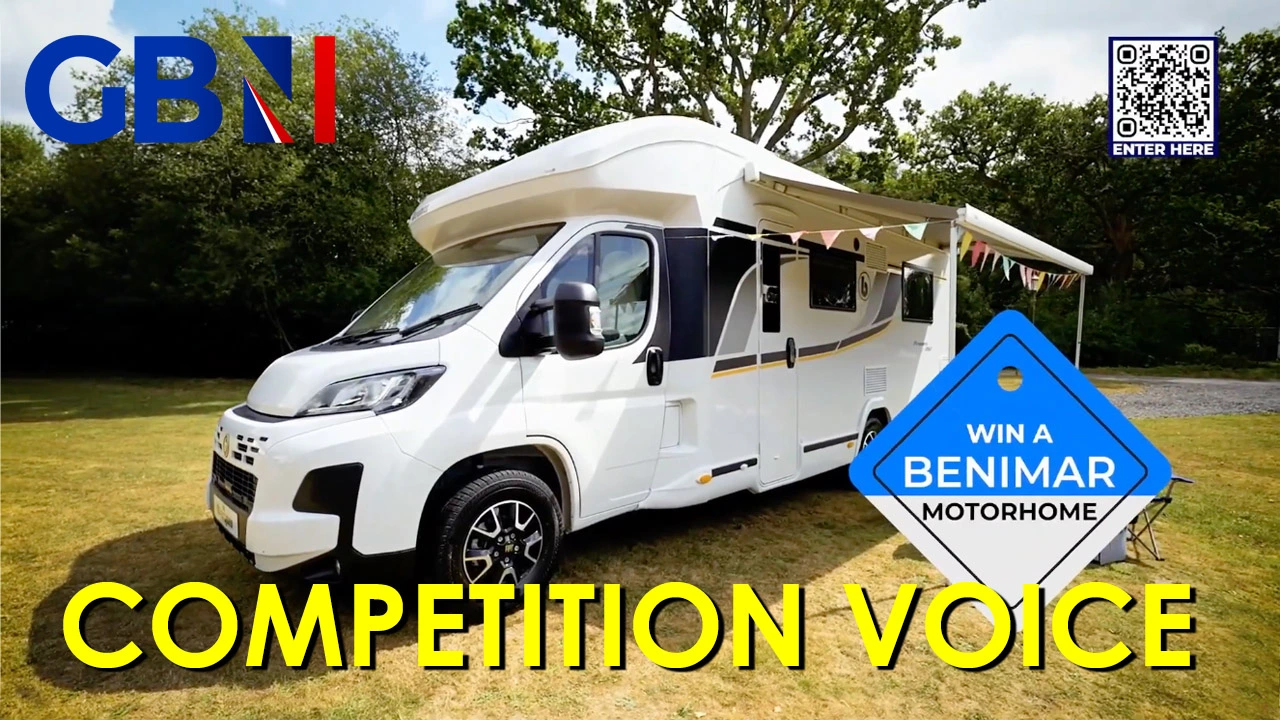
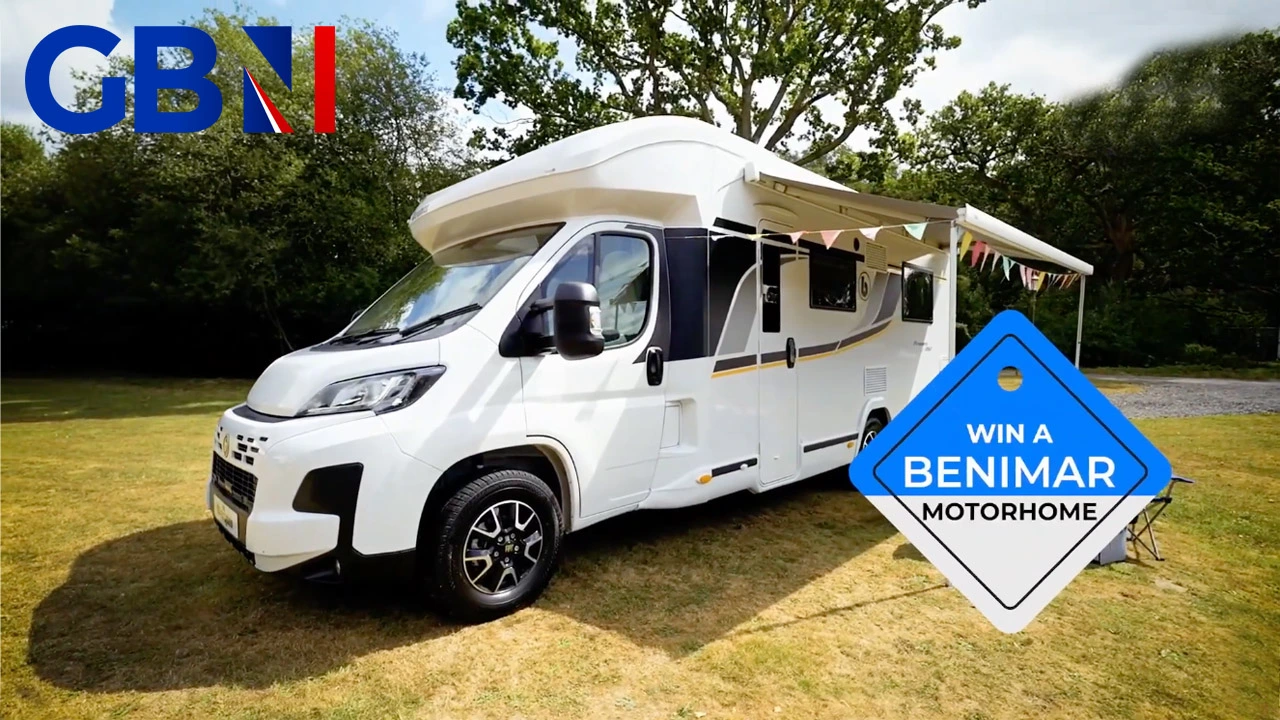
Update video cards to match SantaGuy website style
Replace custom video thumbnails with new WEBP images, implement YouTube-style red play buttons, and restyle cards to a clean white design with rounded corners and subtle hover effects.

Replit-Commit-Author: Agent
Replit-Commit-Session-Id: bfc97637-5a69-47d6-aaa4-dc991e6bf89f
Replit-Commit-Checkpoint-Type: full_checkpoint
Replit-Commit-Event-Id: 2c4ea893-d488-412f-a7ba-46a44b9510f7
Replit-Commit-Screenshot-Url: https://storage.googleapis.com/screenshot-production-us-central1/914520e3-7f4e-4784-a76e-e5ef8cb473bb/bfc97637-5a69-47d6-aaa4-dc991e6bf89f/9NCEJ8X
Replit-Helium-Checkpoint-Created: true

Changed region(s): [[0.0312, 0.7944, 0.9375, 0.9472], [0.0, 0.0306, 0.2812, 0.2139], [0.8125, 0.0306, 1.0, 0.2444]]

diff --git a/client/src/pages/home.tsx b/client/src/pages/home.tsx
@@ -775,9 +775,9 @@ function VideoCard({ video }: { video: typeof VIDEO_CARDS[number] }) {
   const [playing, setPlaying] = useState(false);
 
   return (
-    <div data-testid={video.testId}>
+    <div data-testid={video.testId} className="group">
       <div
-        className="relative aspect-video rounded-lg overflow-hidden bg-gray-900 shadow-lg group transition-all duration-250 ease-out hover:-translate-y-1 hover:shadow-xl"
+        className="relative aspect-video rounded-xl overflow-hidden bg-gray-100 shadow-md transition-all duration-300 ease-out group-hover:-translate-y-1 group-hover:shadow-xl"
       >
         {playing ? (
           <iframe
@@ -790,7 +790,7 @@ function VideoCard({ video }: { video: typeof VIDEO_CARDS[number] }) {
         ) : (
           <button
             onClick={() => setPlaying(true)}
-            className="absolute inset-0 w-full h-full cursor-pointer focus-visible:outline-none focus-visible:ring-2 focus-visible:ring-[#9C060B] focus-visible:ring-offset-2 rounded-lg"
+            className="absolute inset-0 w-full h-full cursor-pointer focus-visible:outline-none focus-visible:ring-2 focus-visible:ring-[#9C060B] focus-visible:ring-offset-2 rounded-xl"
             aria-label={`Play ${video.title}`}
             data-testid={`play-button-${video.id}`}
           >
@@ -800,27 +800,22 @@ function VideoCard({ video }: { video: typeof VIDEO_CARDS[number] }) {
               className="absolute inset-0 w-full h-full object-cover transition-transform duration-300 ease-out group-hover:scale-[1.03]"
               loading="lazy"
             />
-            <div
-              className="absolute inset-0 pointer-events-none"
-              style={{
-                background: "linear-gradient(to top, rgba(0,0,0,0.45), rgba(0,0,0,0.18), transparent)",
-              }}
-            />
             <div className="absolute inset-0 flex items-center justify-center pointer-events-none">
-              <div
-                className="w-16 h-16 rounded-full bg-[#9C060B] flex items-center justify-center shadow-lg transition-transform duration-250 ease-out group-hover:scale-110"
+              <svg
+                className="w-[68px] h-[48px] transition-transform duration-300 ease-out group-hover:scale-110 drop-shadow-lg"
+                viewBox="0 0 68 48"
+                aria-hidden="true"
+                focusable="false"
               >
-                <Play className="h-7 w-7 text-white ml-0.5" fill="currentColor" />
-              </div>
+                <path d="M66.52 7.74c-.78-2.93-2.49-5.41-5.42-6.19C55.79.13 34 0 34 0S12.21.13 6.9 1.55C3.97 2.33 2.27 4.81 1.48 7.74.06 13.05 0 24 0 24s.06 10.95 1.48 16.26c.78 2.93 2.49 5.41 5.42 6.19C12.21 47.87 34 48 34 48s21.79-.13 27.1-1.55c2.93-.78 4.64-3.26 5.42-6.19C67.94 34.95 68 24 68 24s-.06-10.95-1.48-16.26z" fill="#FF0000" />
+                <path d="M45 24L27 14v20" fill="#fff" />
+              </svg>
             </div>
           </button>
         )}
       </div>
-      <h3 className="text-lg font-semibold text-gray-900 mt-4">
+      <p className="text-[15px] font-medium text-gray-800 mt-3 leading-snug">
         {video.title}
-      </h3>
-      <p className="text-sm text-gray-500">
-        {video.description}
       </p>
     </div>
   );
